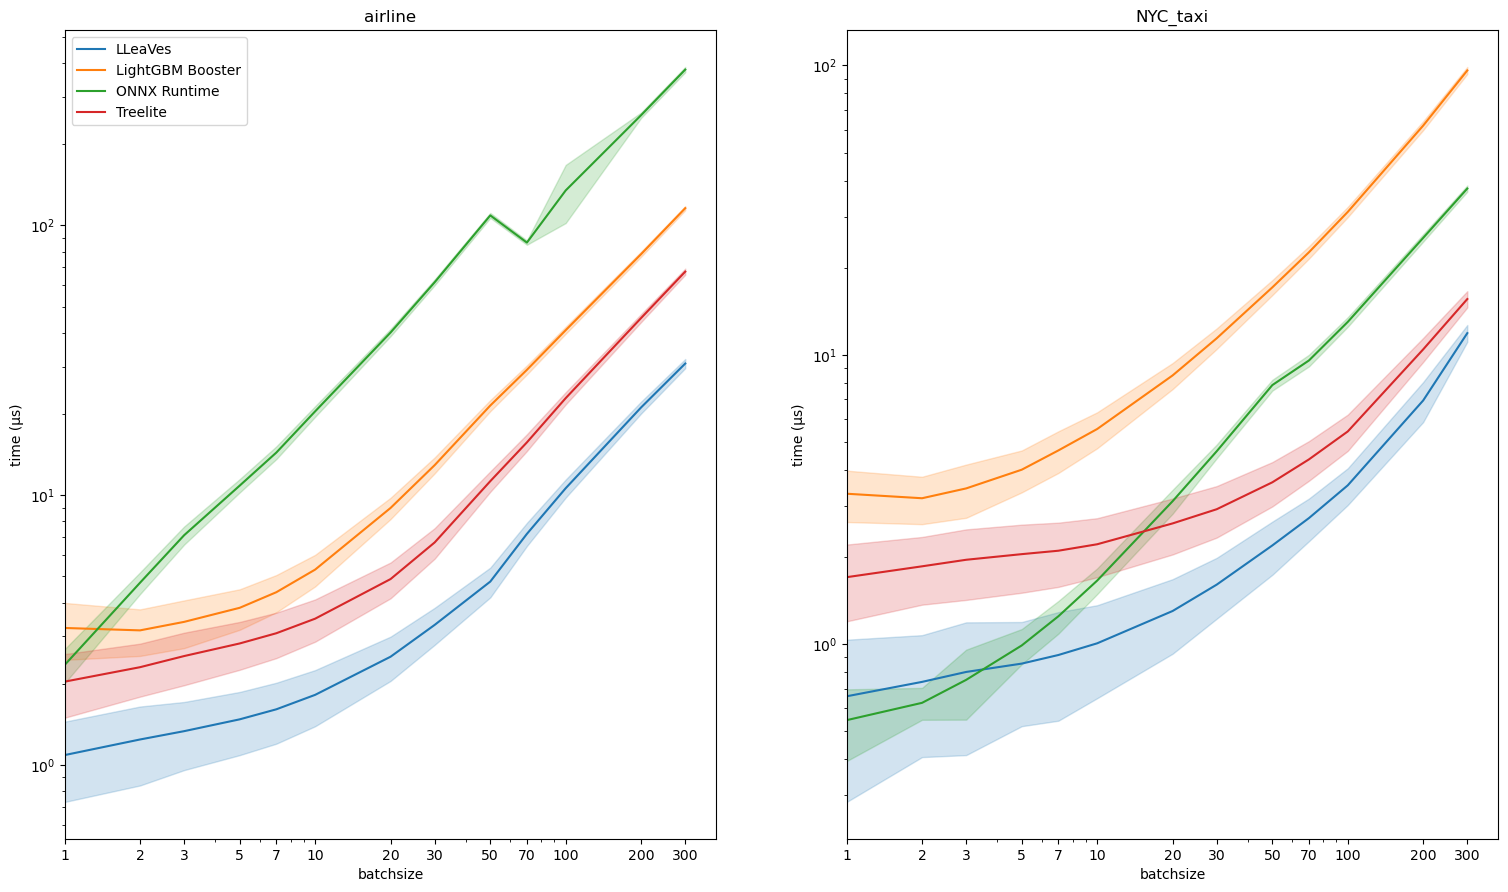
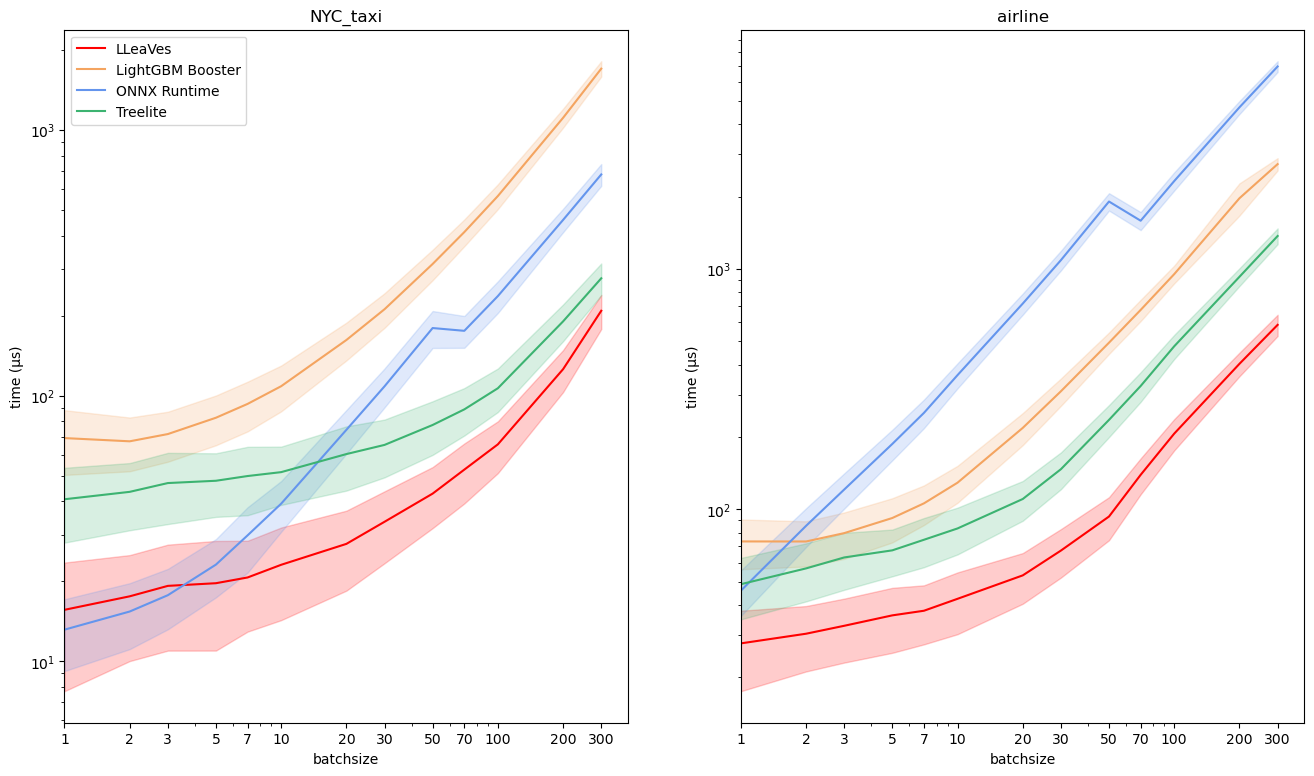
Update README with example

diff --git a/benchmarks/benchmark.py b/benchmarks/benchmark.py
@@ -117,22 +117,38 @@ class ONNXModel(BenchmarkModel):
         )
 
 
+def get_color(libname):
+    libkey = libname.lower()
+    d = {
+        "lleaves": "red",
+        "lightgbm": "sandybrown",
+        "treelite": "mediumseagreen",
+        "onnx": "cornflowerblue",
+    }
+    for key, value in d.items():
+        if key in libkey:
+            return value
+
+
 def save_plots(results_full, n_threads, model_files, batchsizes):
     for n_thread in n_threads:
         fig, axs = plt.subplots(ncols=2, nrows=1)
-        fig.set_size_inches(18.5, 10.5)
+        fig.set_size_inches(16, 9)
         keys = sorted(results_full.keys())
         for count, model_file in enumerate(model_files):
             model_name = model_file.split("/")[-2]
             for key in keys:
                 if key.startswith(f"{model_name}_{n_thread}"):
+                    if "(single-threaded)" in key:
+                        continue
                     seaborn.lineplot(
                         x="batchsize",
                         y="time (μs)",
                         ci="sd",
                         data=results_full[key],
                         ax=axs[count],
-                        label=key.split("_")[2] if count == 0 else None,
+                        color=get_color(key),
+                        label=key.split("_")[3] if count == 0 else None,
                     )
             axs[count].set(
                 xscale="log",
@@ -213,8 +229,8 @@ if __name__ == "__main__":
     model_file_airline = "../tests/models/airline/model.txt"
 
     run_benchmark(
-        model_files=[model_file_airline, model_file_NYC],
-        np_data=[airline_X, NYC_X],
+        model_files=[model_file_NYC, model_file_airline],
+        np_data=[None, None],
         model_classes=[
             LLVMModel,
             LLVMModelSingle,
@@ -236,8 +252,8 @@ if __name__ == "__main__":
     )
 
     run_benchmark(
-        model_files=[model_file_airline, model_file_NYC],
-        np_data=[airline_X, NYC_X],
+        model_files=[model_file_NYC, model_file_airline],
+        np_data=[NYC_X, airline_X],
         model_classes=[
             LLVMModel,
             LGBMModel,

diff --git a/README.md b/README.md
@@ -1,26 +1,33 @@
-# LLeaves 🐉
+# lleaves 🍃
 A LLVM-based compiler for LightGBM decision trees.
 
-Ingests `model.txt` files from trained LightGBM Models and
-converts them into optimized machine code.
+`lleaves` converts trained LightGBM models to optimized machine code, speeding-up inference by up to 10x.
 
-## Why LLeaves?
-- Drop-in replacement for LightGBM inference: The interface is a subset of `LightGBM.Booster`.
-- Speed: Up to 10x performance increase compared to LightGBM.
-- Just two dependencies: `llvmlite` and `numpy`. LLVM comes statically linked.
- 
-A few LightGBM features are not yet implemented:
-- Multiclass prediction
-- Linear Models
+### Example:
+
+```python
+lgbm_model = lightgbm.Model(model_file="NYC_taxi/model.txt")
+%timeit lgbm_model.predict(df)
+# 11.6 s ± 442 ms
+
+llvm_model = lleaves.Model(model_file="NYC_taxi/model.txt")
+llvm_model.compile()
+%timeit llvm_model.predict(df)
+# 1.84 s ± 68.7 ms
+```
+
+## Why lleaves?
+- Speed: Both low-latency single-row prediction and high-throughput batch-prediction.
+- Drop-in replacement: The interface of `lleaves.Model` is a subset of `LightGBM.Booster`.
+- Dependencies: `llvmlite` and `numpy`. LLVM comes statically linked.
+
+Some LightGBM features are not yet implemented: multiclass prediction, linear models.
 
 ## Benchmarks
-[benchmark script](benchmarks/benchmark.py).
-Intel Xeon Haswell, 8vCPUs.
+Ran on Intel Xeon Haswell, 8vCPUs.
 Some of the variance is due to performance interference.
 
-Datasets used:
-- NYC-taxi: Focus on numerical features
-- Airlines: Focus on categorical features, some with high cardinality (>100)
+Datasets: NYC-taxi (mostly numerical features), Airlines (categorical features with high cardinality)
 
 #### Small batches (single-threaded)
 ![img](benchmarks/1.png)
@@ -35,12 +42,3 @@ pip install -e .
 pre-commit install
 pytest
 ```
-
-### Tasks
-- Come up with a better name (has to be available on PyPI and conda): Waldmeister, treezero, lltc (low level tree compiler)
-- Experiment with more efficient bitvector storage for categoricals (Int64 instead of Int32).
-- Implement final output transformation function in IR instead of numpy ufunc.
-- Add optional single-precision mode
-- Parse `internal_count` from model.txt, use it for compiler branch prediction hints. 
-  (Caveat: Treelite has branch prediction hints and it doesn't help with speed at all)
-- Introduce Cython runtime module? Faster output functions, lower latency multithreading. More effort for packaging.
